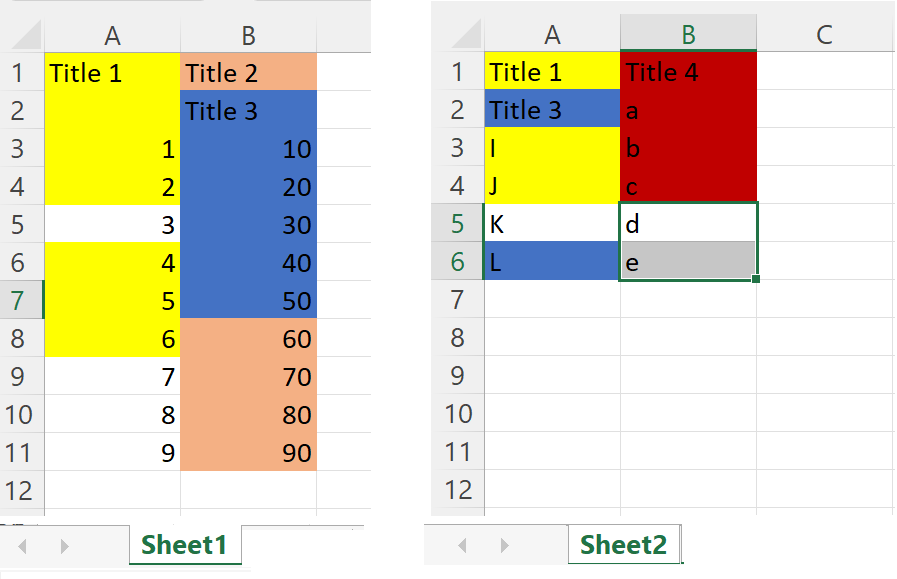
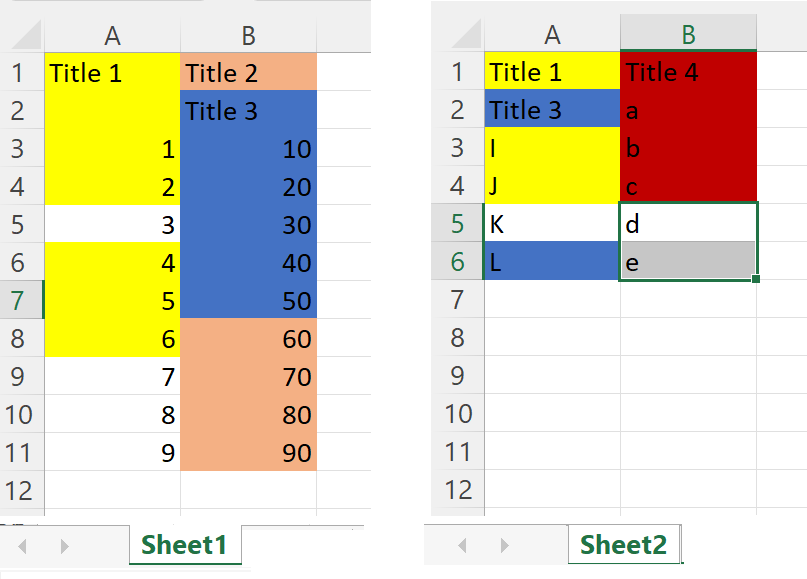
Trying height and width for the input file

diff --git a/README.md b/README.md
@@ -60,7 +60,7 @@ within a xls workbook.
 
 ### Example:
 Input file:
-![plot](./colorsort_input1.png)
+![plot](./colorsort_input1.png width="400" height="400")
 
 ### Usage:
 ```
